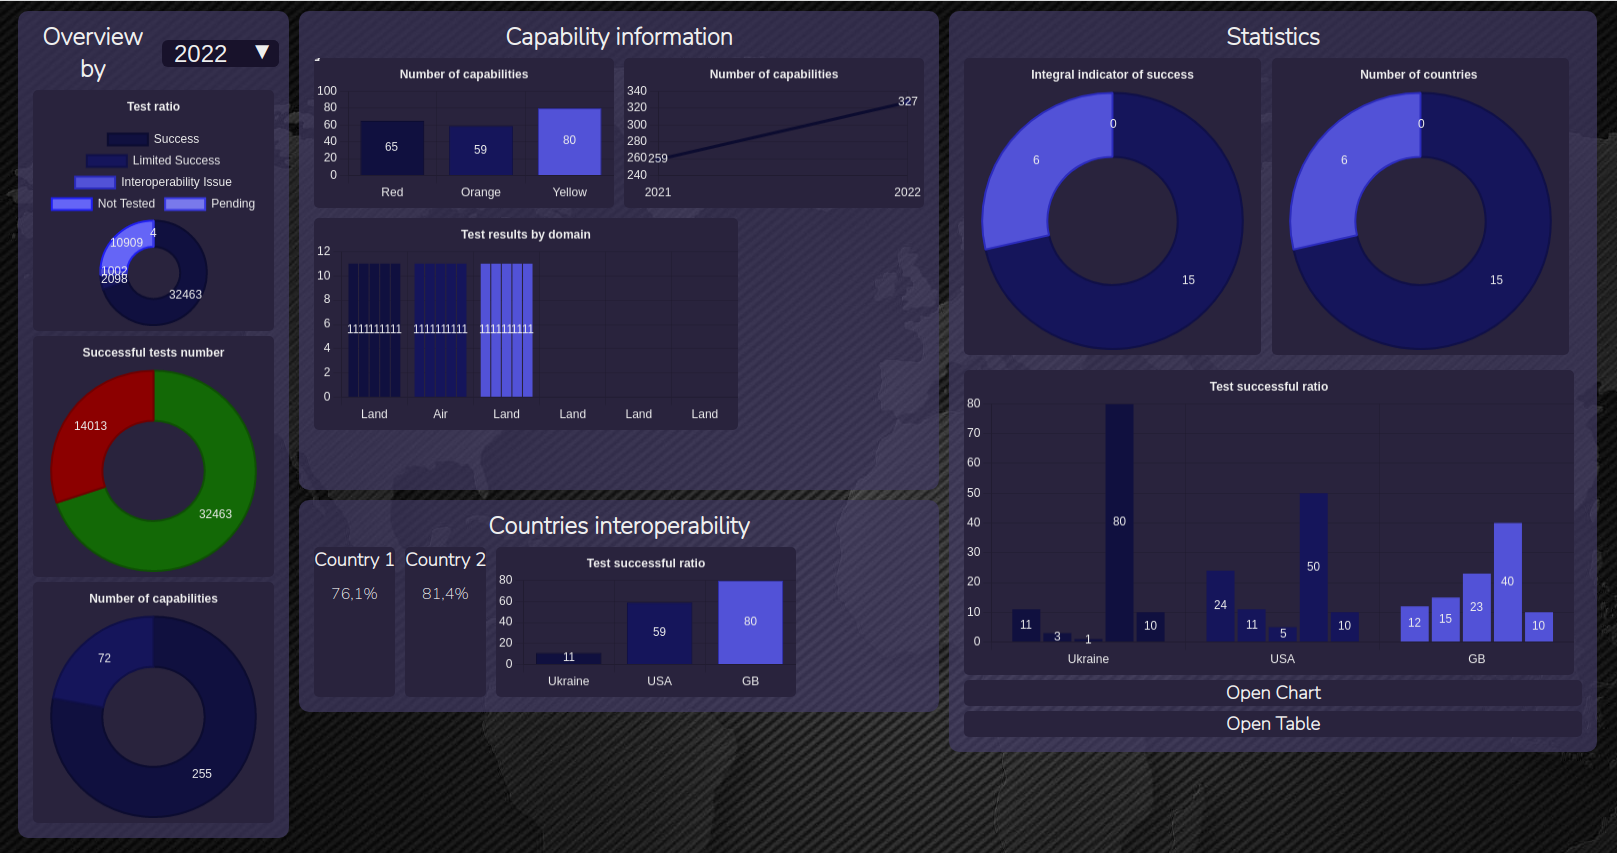
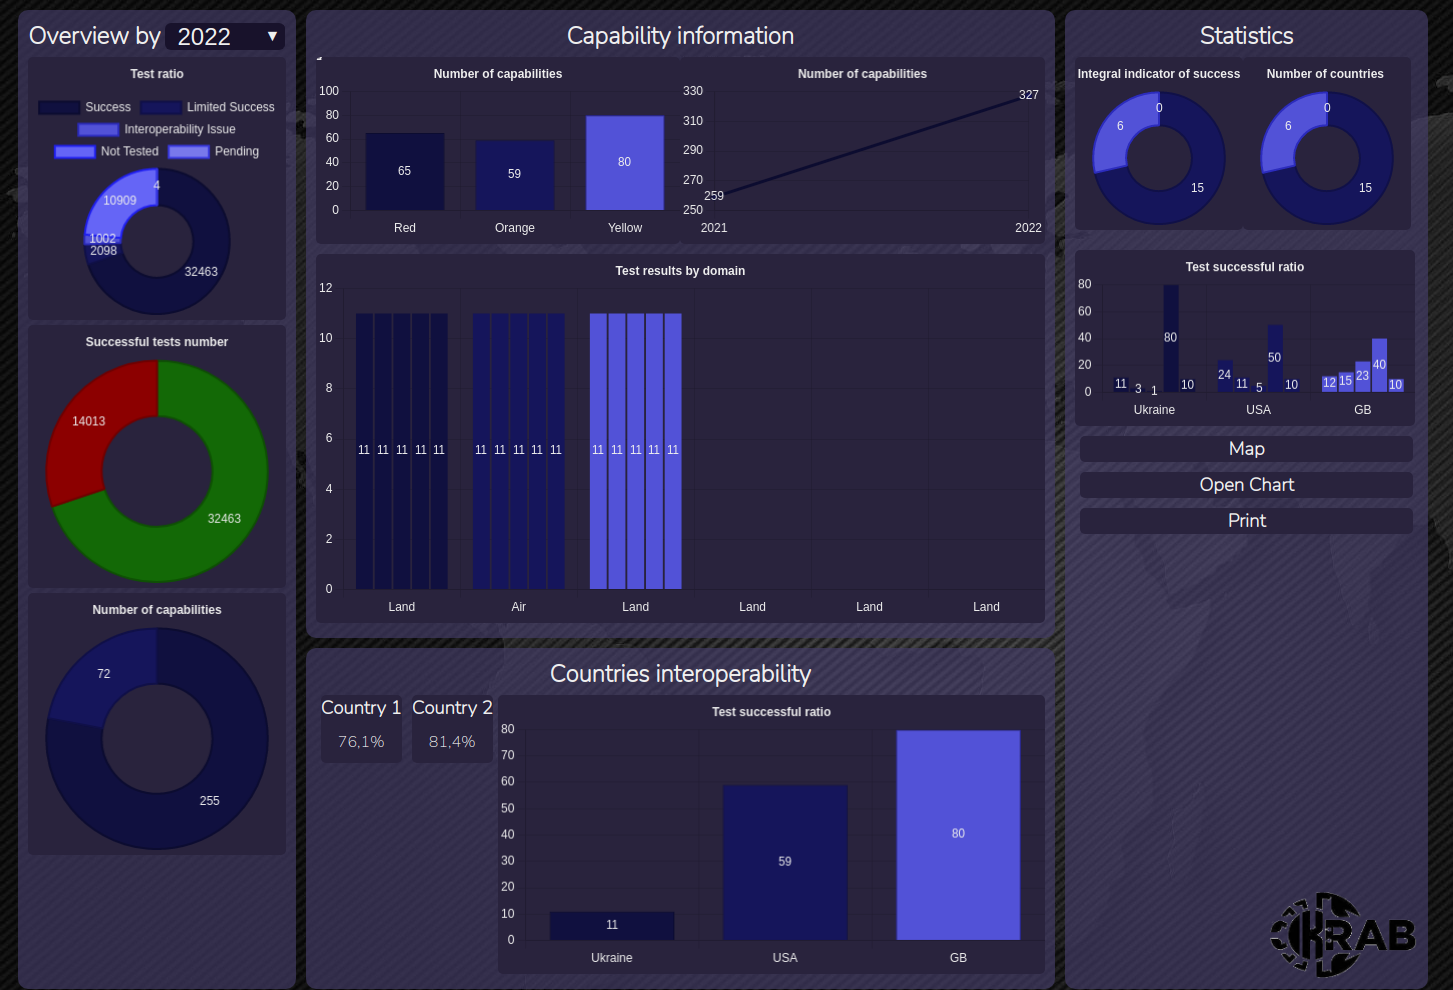
Readme update

diff --git a/README.md b/README.md
@@ -2,7 +2,10 @@
 KRAB - Interoperability Dashboard Challenge
 
 ## Dashboard page
+#### Main part
 ![Screenshot 1](./screenshots/1.png?raw=true)
+#### Comparing countries by table
+![Screenshot 1](./screenshots/2.png?raw=true)
 
 ## Information about our project and set up
 Laravel 9 Docker template using PHP 8.1.6, nginx, redis, and Postgres SQL 14.4.
